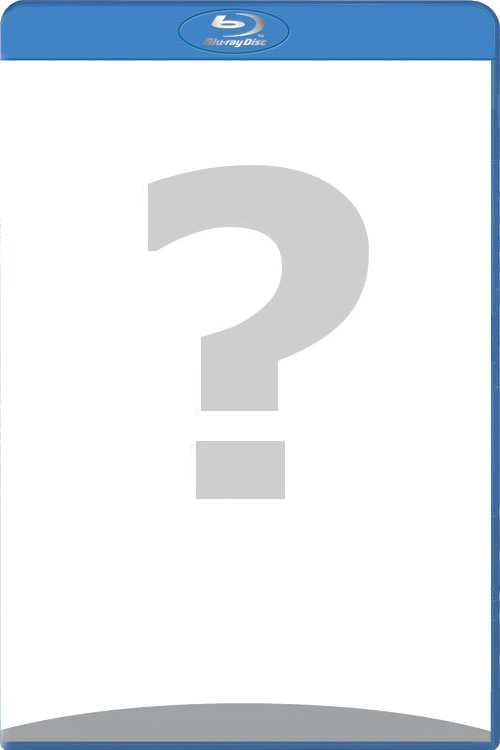
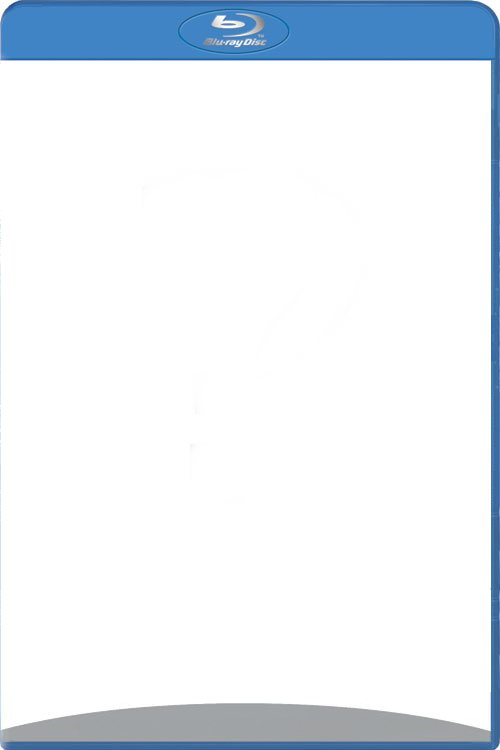
Fix tvshow poster generation (with special chars)
Also removed the "?" from the bd blank cover

Changed region(s): [[0.27, 0.2147, 0.75, 0.552], [0.39, 0.5827, 0.57, 0.6747]]

diff --git a/epymc/plugins/tvshows/tvshows.py b/epymc/plugins/tvshows/tvshows.py
@@ -114,7 +114,7 @@ class FileItemClass(EmcItemClass):
          return 'icon/check_off'
 
    def poster_get(self, url, mod):
-      return 'special/bd/' + os.path.basename(url)
+      return 'special/bd/' + utf8_to_markup(os.path.basename(url))
 
 
 class FolderItemClass(FolderItemClass):
@@ -157,7 +157,7 @@ class SerieItemClass(EmcItemClass):
          e = mod_instance._tvshows_db.get_data(serie_name)
          return get_tv_poster_filename(e['id'])
       else:
-         return 'special/bd/' + serie_name
+         return 'special/bd/' + utf8_to_markup(serie_name)
 
    def fanart_get(self, url, serie_name):
       if mod_instance._tvshows_db.id_exists(serie_name):
@@ -196,7 +196,7 @@ class SeasonItemClass(EmcItemClass):
          if os.path.exists(poster_file):
             return poster_file
          return get_tv_poster_filename(e['id'])
-      return 'special/bd/' + os.path.basename(url)
+      return 'special/bd/' + utf8_to_markup(os.path.basename(url))
 
    def fanart_get(self, url, season_num):
       serie_name = mod_instance._current_serie_name
@@ -235,7 +235,7 @@ class EpisodeItemClass(EmcItemClass):
          else:
             # serie poster
             return get_tv_poster_filename(series_id)
-      return 'special/bd/' + os.path.basename(url)
+      return 'special/bd/' + utf8_to_markup(os.path.basename(url))
          
 
    def fanart_get(self, url, episode_data):
